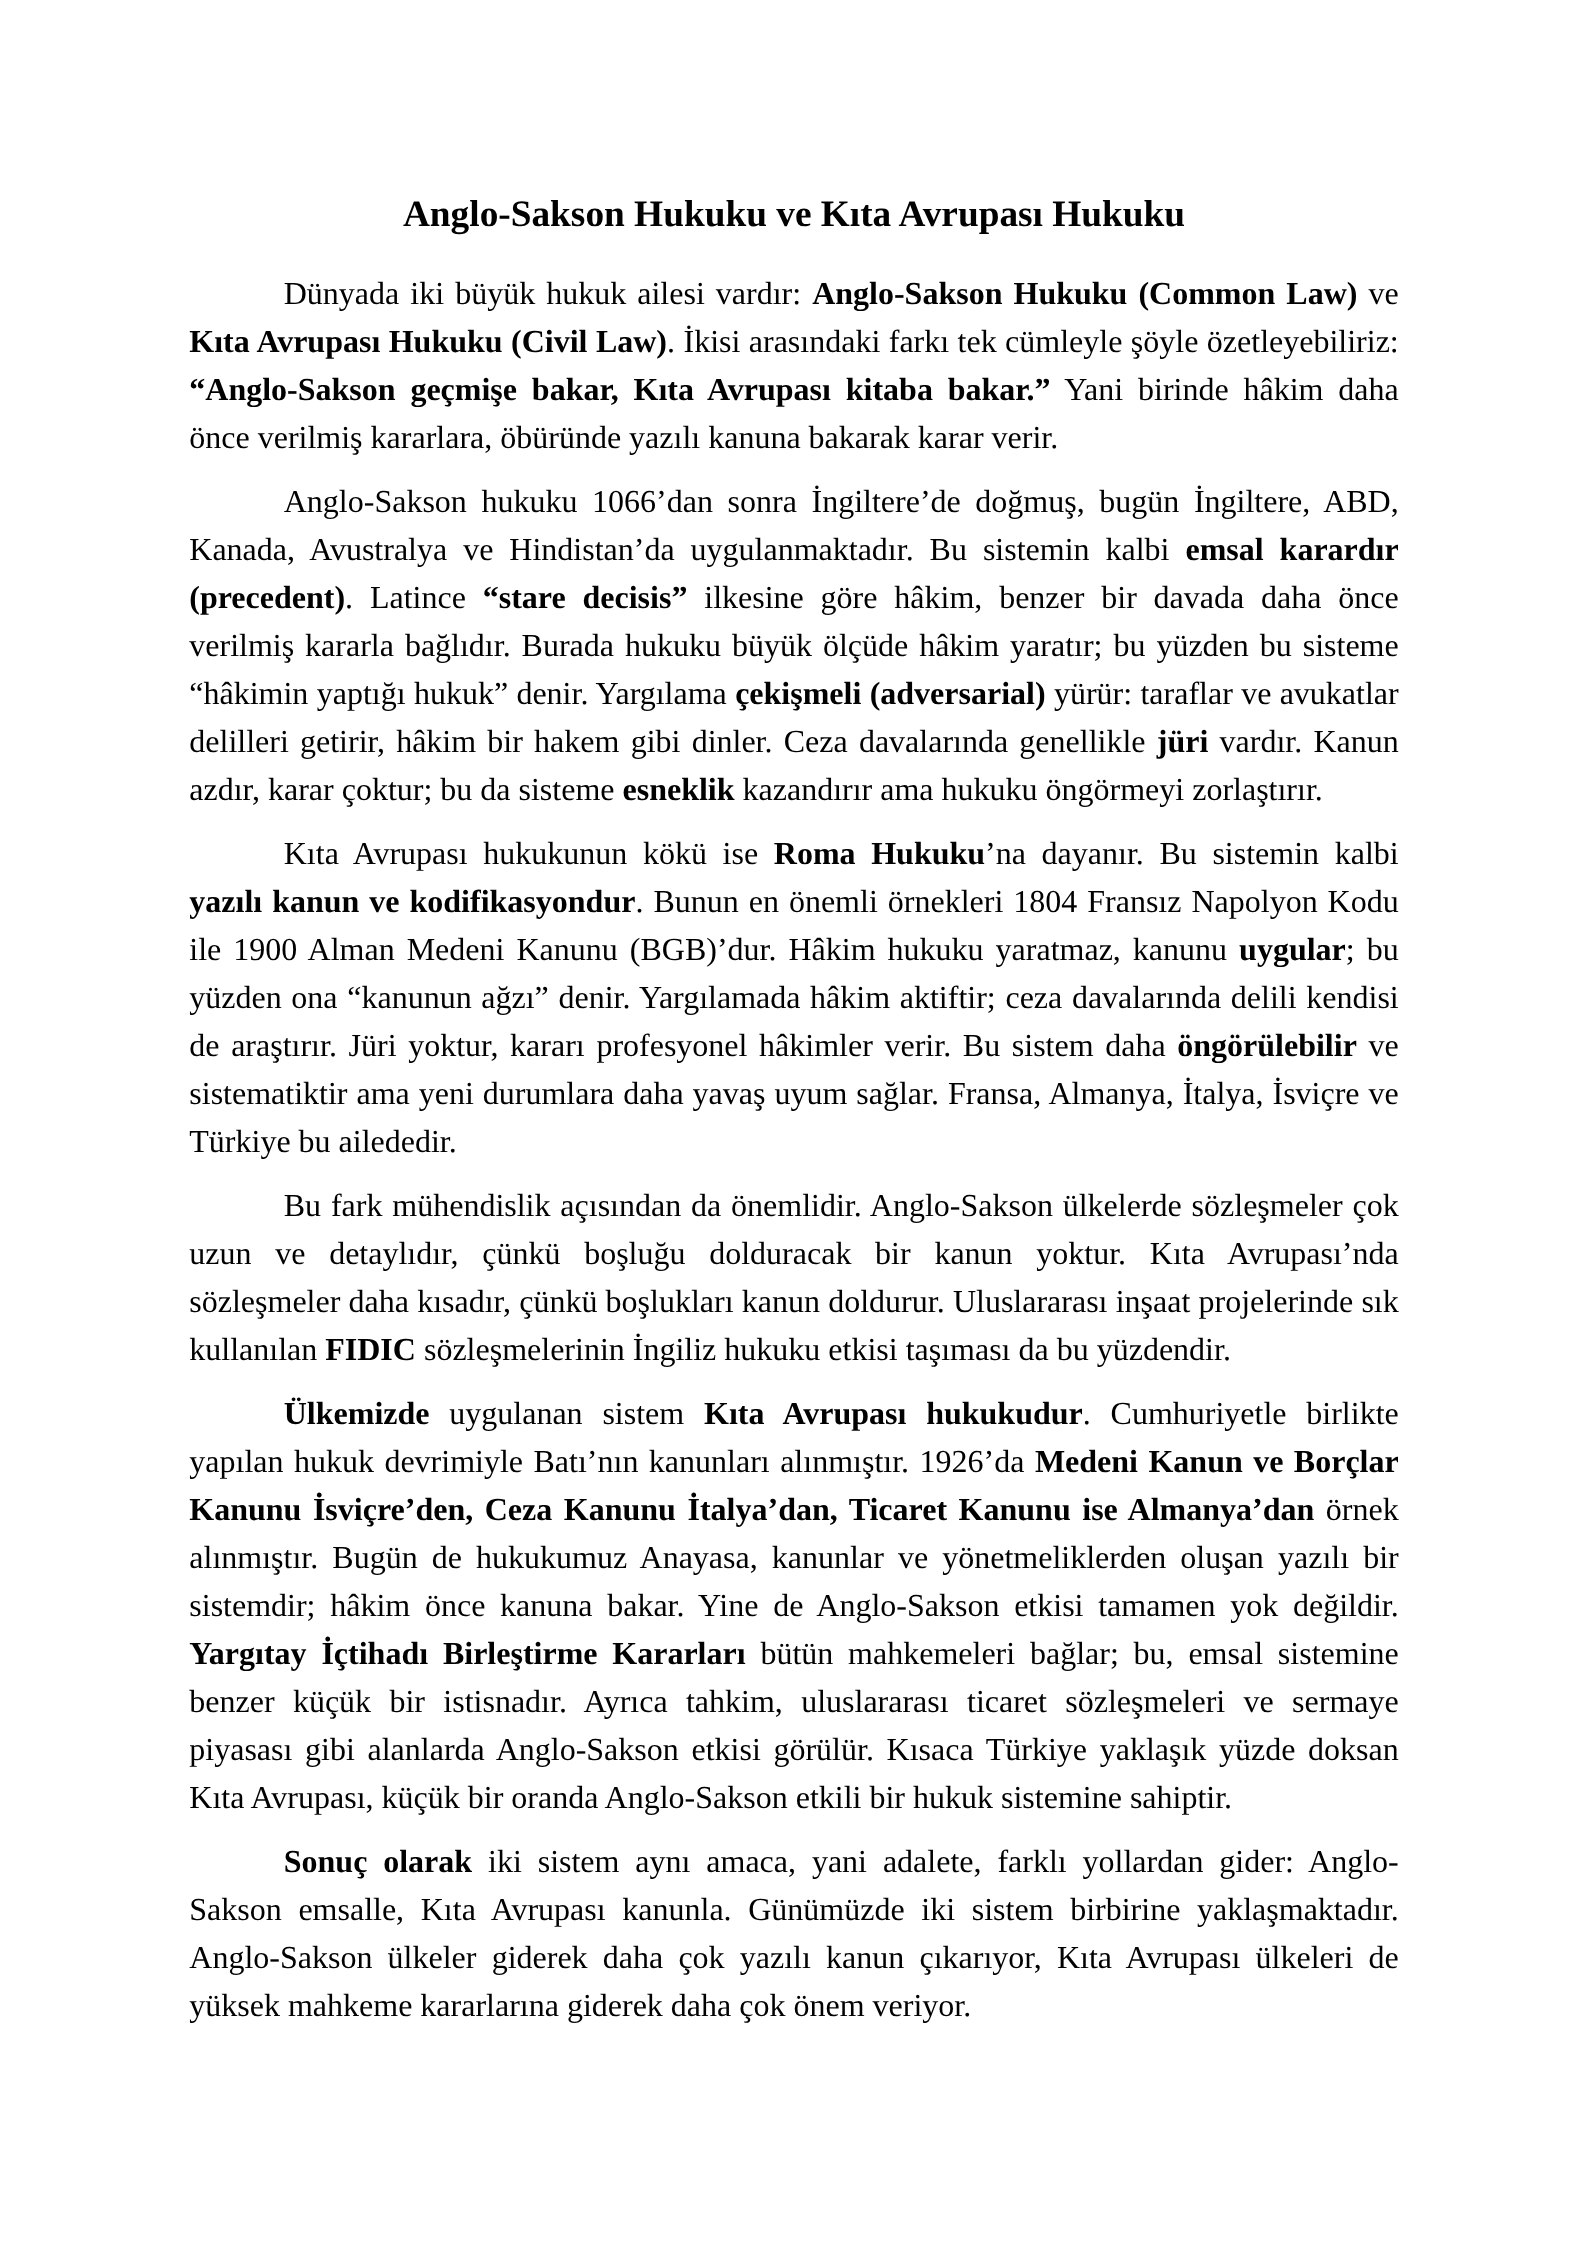
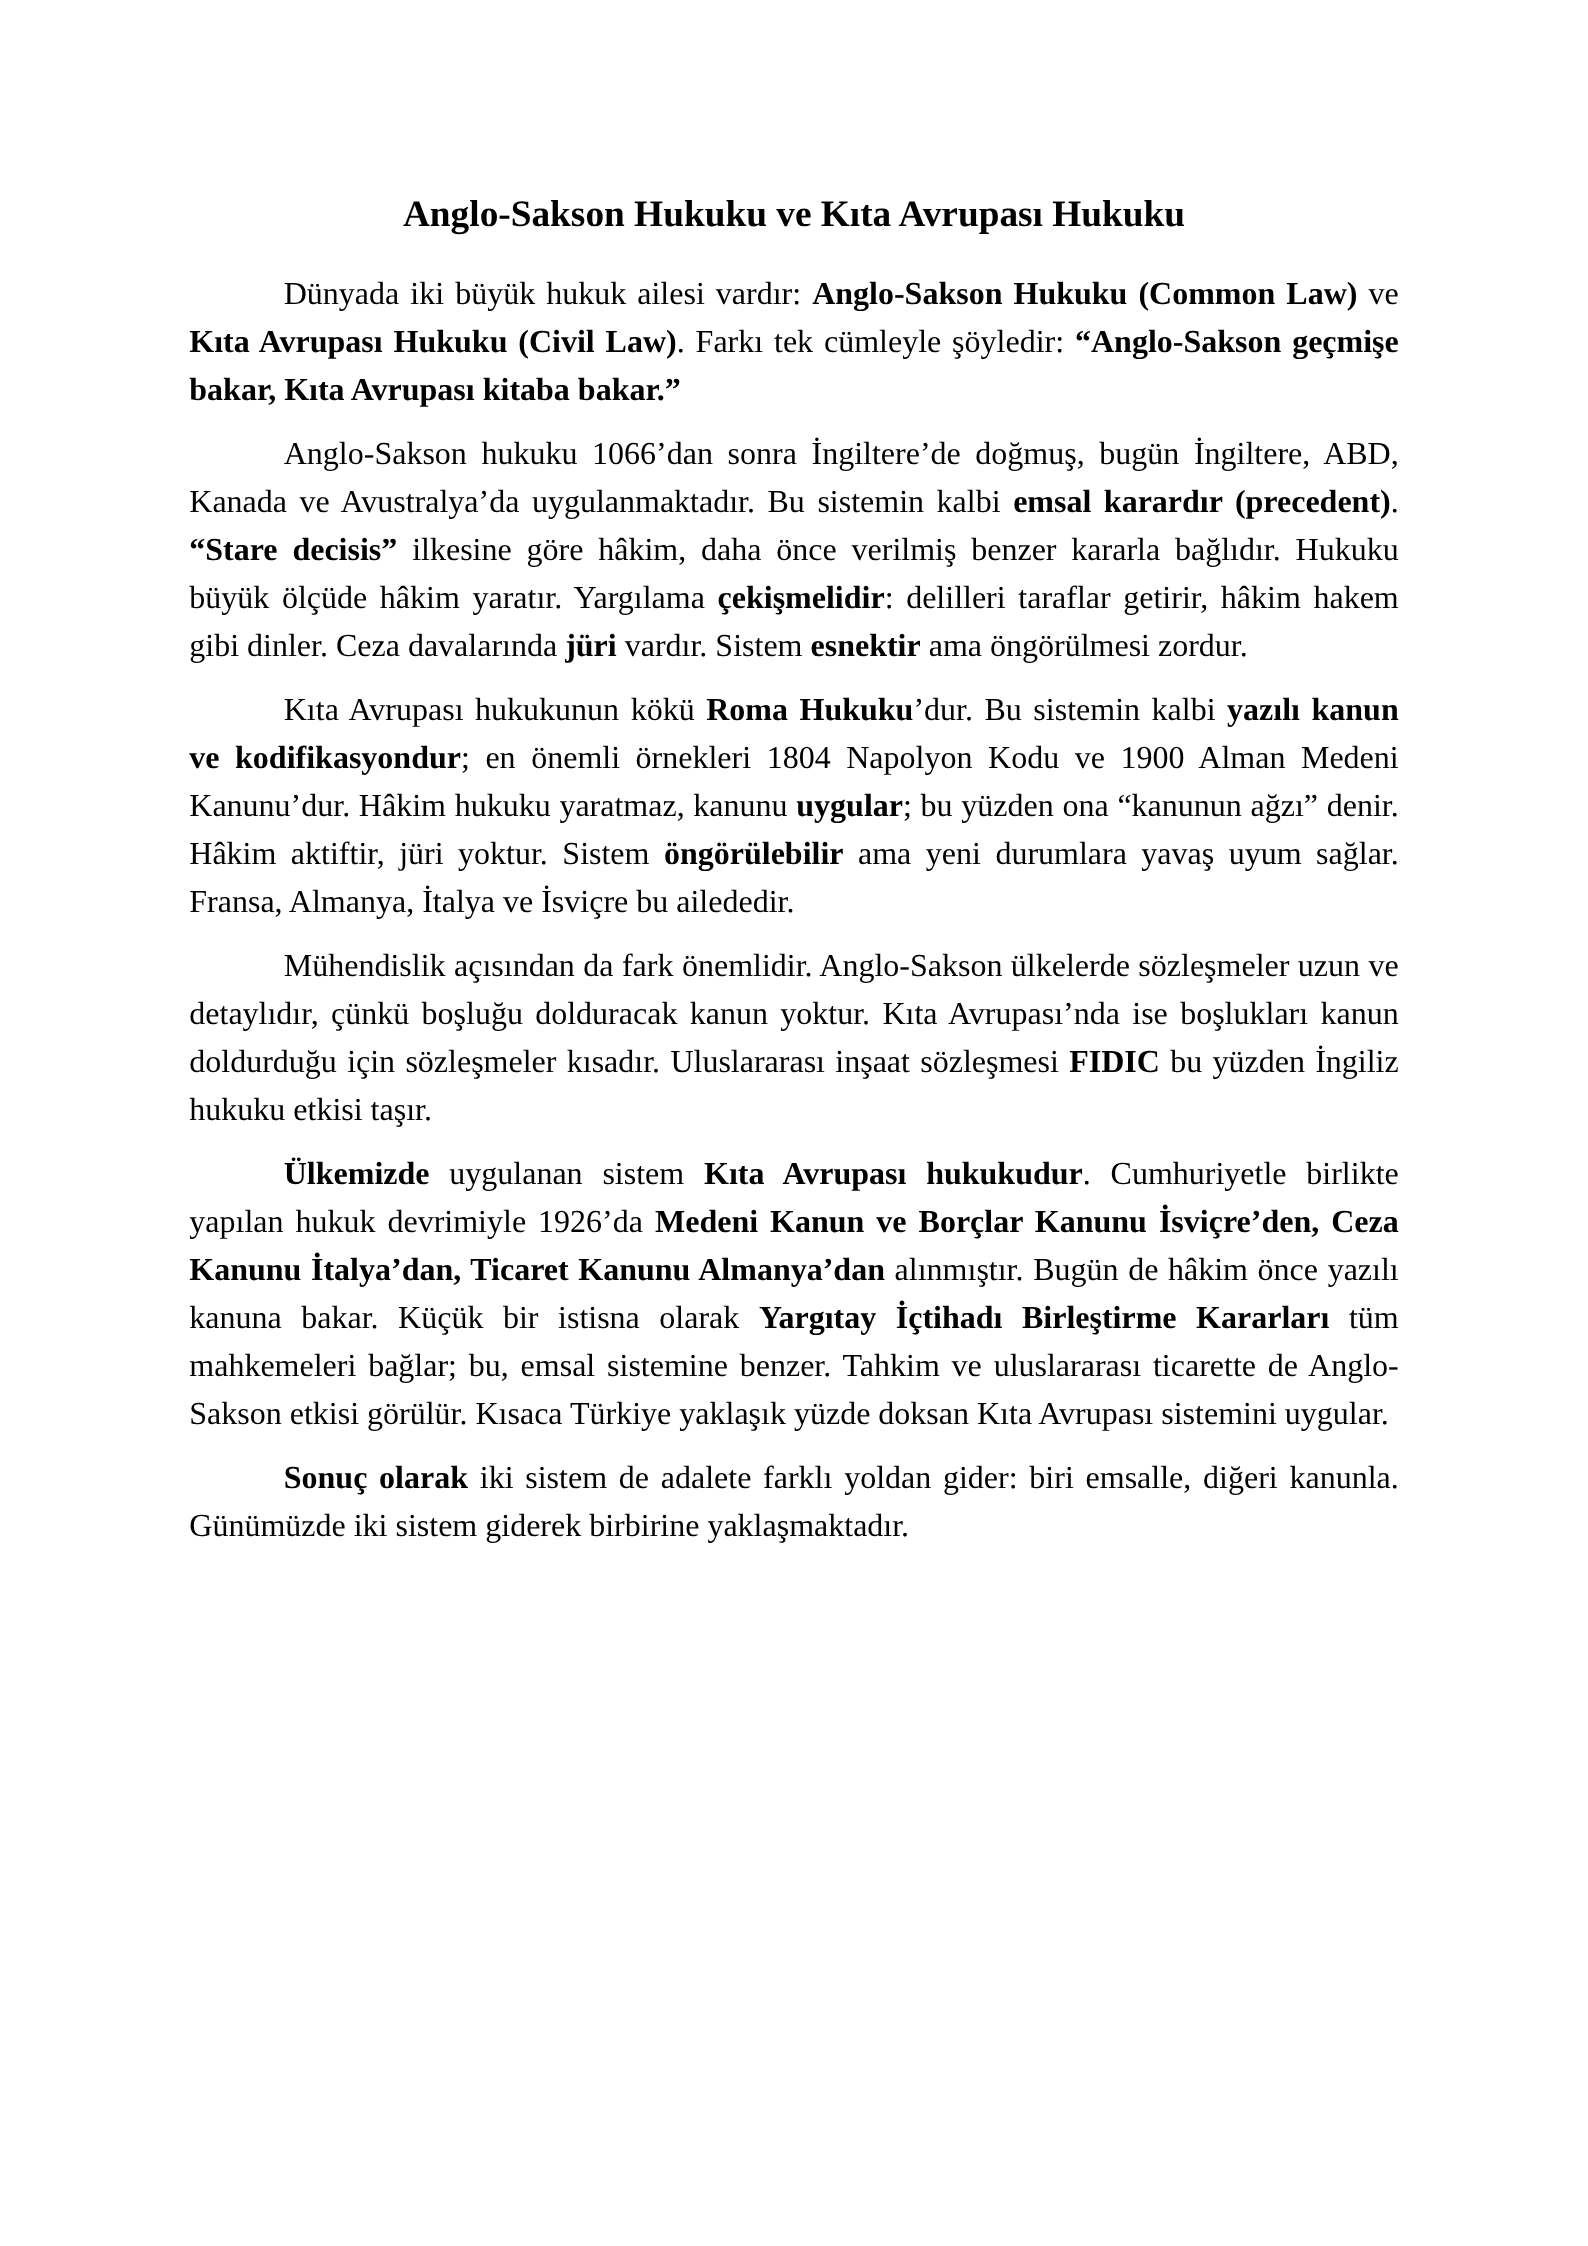
Shorten essay to ~260 words
Claude-Session: https://claude.ai/code/session_01WCyuFkvCUxZLx3MiifkZt2

Changed region(s): [[0.1234, 0.1247, 0.8948, 0.9038]]

diff --git a/vize/a4.html b/vize/a4.html
@@ -6,10 +6,10 @@ h1{font-size:14pt;text-align:center;margin:0 0 10pt}
 p{margin:0 0 6pt;text-indent:1.25cm}
 </style></head><body><div class="page">
 <h1>Anglo-Sakson Hukuku ve Kıta Avrupası Hukuku</h1>
-<p>Dünyada iki büyük hukuk ailesi vardır: <b>Anglo-Sakson Hukuku (Common Law)</b> ve <b>Kıta Avrupası Hukuku (Civil Law)</b>. İkisi arasındaki farkı tek cümleyle şöyle özetleyebiliriz: <b>“Anglo-Sakson geçmişe bakar, Kıta Avrupası kitaba bakar.”</b> Yani birinde hâkim daha önce verilmiş kararlara, öbüründe yazılı kanuna bakarak karar verir.</p>
-<p>Anglo-Sakson hukuku 1066’dan sonra İngiltere’de doğmuş, bugün İngiltere, ABD, Kanada, Avustralya ve Hindistan’da uygulanmaktadır. Bu sistemin kalbi <b>emsal karardır (precedent)</b>. Latince <b>“stare decisis”</b> ilkesine göre hâkim, benzer bir davada daha önce verilmiş kararla bağlıdır. Burada hukuku büyük ölçüde hâkim yaratır; bu yüzden bu sisteme “hâkimin yaptığı hukuk” denir. Yargılama <b>çekişmeli (adversarial)</b> yürür: taraflar ve avukatlar delilleri getirir, hâkim bir hakem gibi dinler. Ceza davalarında genellikle <b>jüri</b> vardır. Kanun azdır, karar çoktur; bu da sisteme <b>esneklik</b> kazandırır ama hukuku öngörmeyi zorlaştırır.</p>
-<p>Kıta Avrupası hukukunun kökü ise <b>Roma Hukuku</b>’na dayanır. Bu sistemin kalbi <b>yazılı kanun ve kodifikasyondur</b>. Bunun en önemli örnekleri 1804 Fransız Napolyon Kodu ile 1900 Alman Medeni Kanunu (BGB)’dur. Hâkim hukuku yaratmaz, kanunu <b>uygular</b>; bu yüzden ona “kanunun ağzı” denir. Yargılamada hâkim aktiftir; ceza davalarında delili kendisi de araştırır. Jüri yoktur, kararı profesyonel hâkimler verir. Bu sistem daha <b>öngörülebilir</b> ve sistematiktir ama yeni durumlara daha yavaş uyum sağlar. Fransa, Almanya, İtalya, İsviçre ve Türkiye bu ailededir.</p>
-<p>Bu fark mühendislik açısından da önemlidir. Anglo-Sakson ülkelerde sözleşmeler çok uzun ve detaylıdır, çünkü boşluğu dolduracak bir kanun yoktur. Kıta Avrupası’nda sözleşmeler daha kısadır, çünkü boşlukları kanun doldurur. Uluslararası inşaat projelerinde sık kullanılan <b>FIDIC</b> sözleşmelerinin İngiliz hukuku etkisi taşıması da bu yüzdendir.</p>
-<p><b>Ülkemizde</b> uygulanan sistem <b>Kıta Avrupası hukukudur</b>. Cumhuriyetle birlikte yapılan hukuk devrimiyle Batı’nın kanunları alınmıştır. 1926’da <b>Medeni Kanun ve Borçlar Kanunu İsviçre’den, Ceza Kanunu İtalya’dan, Ticaret Kanunu ise Almanya’dan</b> örnek alınmıştır. Bugün de hukukumuz Anayasa, kanunlar ve yönetmeliklerden oluşan yazılı bir sistemdir; hâkim önce kanuna bakar. Yine de Anglo-Sakson etkisi tamamen yok değildir. <b>Yargıtay İçtihadı Birleştirme Kararları</b> bütün mahkemeleri bağlar; bu, emsal sistemine benzer küçük bir istisnadır. Ayrıca tahkim, uluslararası ticaret sözleşmeleri ve sermaye piyasası gibi alanlarda Anglo-Sakson etkisi görülür. Kısaca Türkiye yaklaşık yüzde doksan Kıta Avrupası, küçük bir oranda Anglo-Sakson etkili bir hukuk sistemine sahiptir.</p>
-<p><b>Sonuç olarak</b> iki sistem aynı amaca, yani adalete, farklı yollardan gider: Anglo-Sakson emsalle, Kıta Avrupası kanunla. Günümüzde iki sistem birbirine yaklaşmaktadır. Anglo-Sakson ülkeler giderek daha çok yazılı kanun çıkarıyor, Kıta Avrupası ülkeleri de yüksek mahkeme kararlarına giderek daha çok önem veriyor.</p>
+<p>Dünyada iki büyük hukuk ailesi vardır: <b>Anglo-Sakson Hukuku (Common Law)</b> ve <b>Kıta Avrupası Hukuku (Civil Law)</b>. Farkı tek cümleyle şöyledir: <b>“Anglo-Sakson geçmişe bakar, Kıta Avrupası kitaba bakar.”</b></p>
+<p>Anglo-Sakson hukuku 1066’dan sonra İngiltere’de doğmuş, bugün İngiltere, ABD, Kanada ve Avustralya’da uygulanmaktadır. Bu sistemin kalbi <b>emsal karardır (precedent)</b>. <b>“Stare decisis”</b> ilkesine göre hâkim, daha önce verilmiş benzer kararla bağlıdır. Hukuku büyük ölçüde hâkim yaratır. Yargılama <b>çekişmelidir</b>: delilleri taraflar getirir, hâkim hakem gibi dinler. Ceza davalarında <b>jüri</b> vardır. Sistem <b>esnektir</b> ama öngörülmesi zordur.</p>
+<p>Kıta Avrupası hukukunun kökü <b>Roma Hukuku</b>’dur. Bu sistemin kalbi <b>yazılı kanun ve kodifikasyondur</b>; en önemli örnekleri 1804 Napolyon Kodu ve 1900 Alman Medeni Kanunu’dur. Hâkim hukuku yaratmaz, kanunu <b>uygular</b>; bu yüzden ona “kanunun ağzı” denir. Hâkim aktiftir, jüri yoktur. Sistem <b>öngörülebilir</b> ama yeni durumlara yavaş uyum sağlar. Fransa, Almanya, İtalya ve İsviçre bu ailededir.</p>
+<p>Mühendislik açısından da fark önemlidir. Anglo-Sakson ülkelerde sözleşmeler uzun ve detaylıdır, çünkü boşluğu dolduracak kanun yoktur. Kıta Avrupası’nda ise boşlukları kanun doldurduğu için sözleşmeler kısadır. Uluslararası inşaat sözleşmesi <b>FIDIC</b> bu yüzden İngiliz hukuku etkisi taşır.</p>
+<p><b>Ülkemizde</b> uygulanan sistem <b>Kıta Avrupası hukukudur</b>. Cumhuriyetle birlikte yapılan hukuk devrimiyle 1926’da <b>Medeni Kanun ve Borçlar Kanunu İsviçre’den, Ceza Kanunu İtalya’dan, Ticaret Kanunu Almanya’dan</b> alınmıştır. Bugün de hâkim önce yazılı kanuna bakar. Küçük bir istisna olarak <b>Yargıtay İçtihadı Birleştirme Kararları</b> tüm mahkemeleri bağlar; bu, emsal sistemine benzer. Tahkim ve uluslararası ticarette de Anglo-Sakson etkisi görülür. Kısaca Türkiye yaklaşık yüzde doksan Kıta Avrupası sistemini uygular.</p>
+<p><b>Sonuç olarak</b> iki sistem de adalete farklı yoldan gider: biri emsalle, diğeri kanunla. Günümüzde iki sistem giderek birbirine yaklaşmaktadır.</p>
 </div></body></html>
